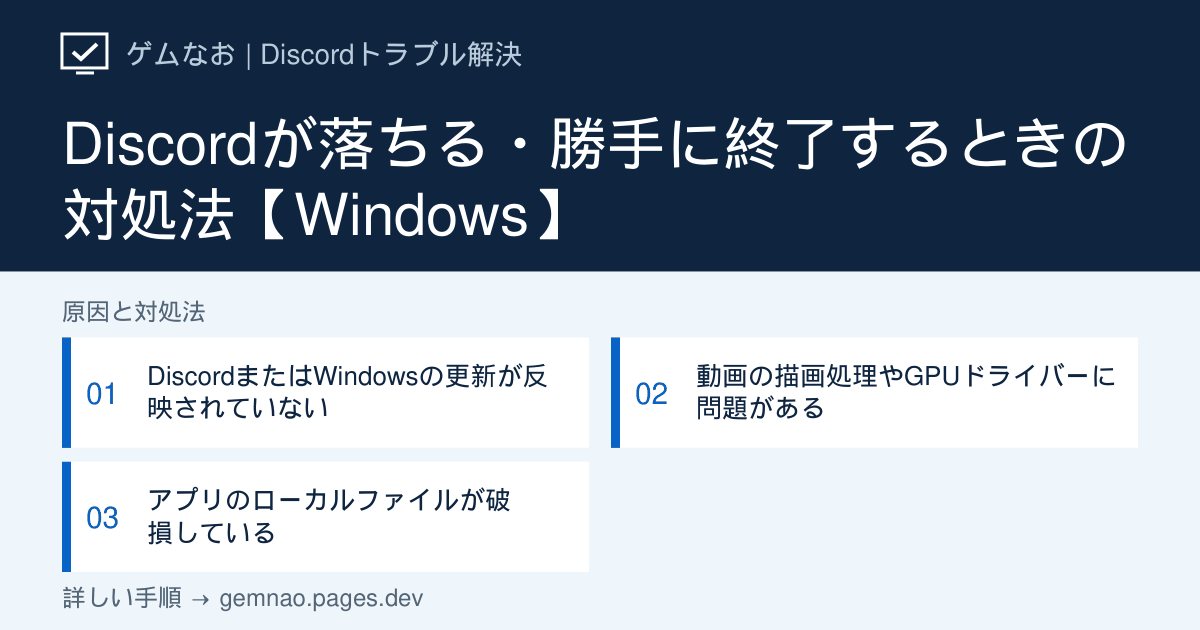
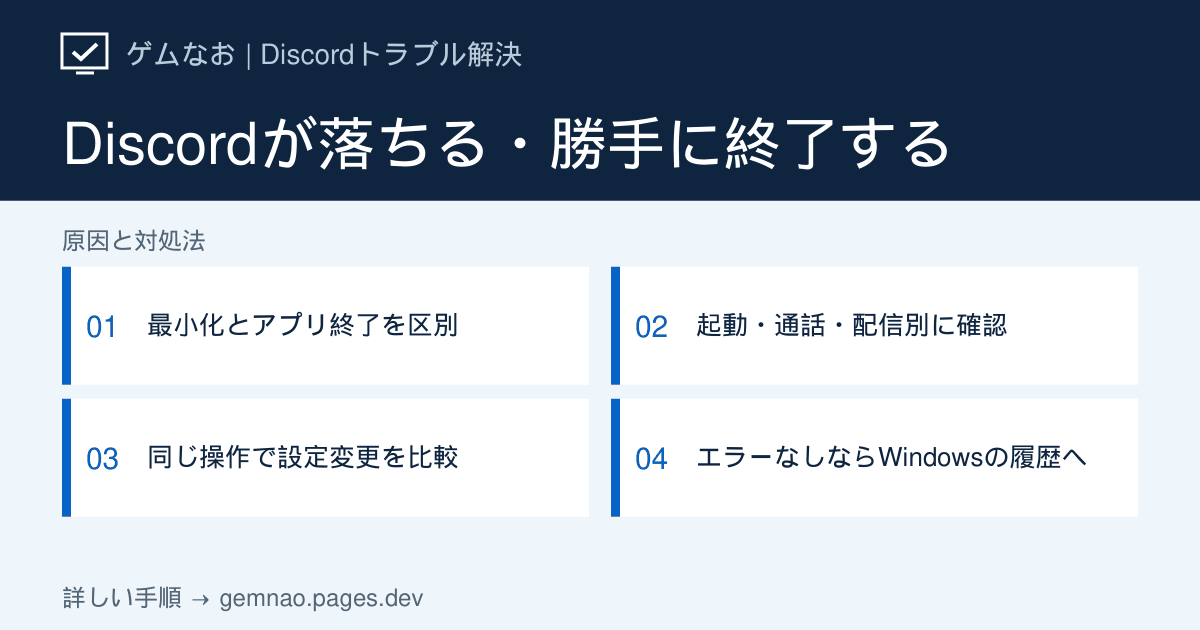
Rewrite Discord crash guide with symptom branches and Windows history checks

diff --git a/lib/discord-growth-articles.ts b/lib/discord-growth-articles.ts
@@ -281,78 +281,123 @@ export const discordGrowthArticles: DiscordArticle[] = [
   {
     slug: 'crashing',
     category: 'launch',
-    title: 'Discordが落ちる・勝手に終了するときの対処法【Windows】',
+    title: 'Discordが落ちる・勝手に終了する原因と直し方【起動・通話・配信別】',
     shortTitle: 'Discordが落ちる',
-    seoTitle: 'Discordが落ちる・勝手に終了するときの対処法【Windows】',
-    metaDescription:
-      'Discordが起動後や通話中に落ちる、勝手に終了する場合のWindows向け対処法。更新、描画設定、ドライバー、再インストールを順に確認します。',
-    symptom:
-      'Discordが起動直後に閉じる、通話や画面共有を始めると落ちる、操作中にウィンドウが突然消える場合の切り分け手順です。',
-    target: 'Windows 11 / Windows 10版 Discordデスクトップアプリ',
-    conclusion:
-      'DiscordとWindowsを更新して再起動し、画面共有や動画で落ちる場合はハードウェアアクセラレーションとGPUドライバーを確認します。アプリだけが落ち続ける場合は公式手順で再インストールします。',
+    seoTitle: 'Discordが落ちる・勝手に終了する時の対処法【Windows】',
+    metaDescription: 'Discordが起動直後・通話開始・画面共有・ゲーム中に落ちる原因を症状別に切り分け。最小化とクラッシュの区別、Windowsの信頼性履歴、描画設定の比較、再インストールの場所と確認方法を解説します。',
+    symptom: 'Discordが突然閉じる、起動してすぐ終了する、通話や画面共有の開始時に落ちる、ゲーム中に再起動を繰り返す場合の手順です。',
+    target: 'Windows 11／10版Discordデスクトップアプリ',
+    conclusion: 'まず通話が続いているか・通知領域から画面を戻せるかを確認し、最小化と終了を分けます。実際に落ちる場合は、起動直後ならブラウザ比較とローカルデータ、通話開始なら音声機器、配信開始なら描画設定、ゲーム中なら負荷とオーバーレイを順に確認します。エラーが出ない場合も、発生時刻をWindowsの信頼性履歴と照合できます。',
     quickFixes: [
-      'Discordを完全終了し、Windowsを再起動して最新版を開く',
-      '画面共有や動画で落ちる場合はハードウェアアクセラレーションを切り替える',
-      'ブラウザ版で再現するか確認し、アプリだけなら再インストールする',
+      '通話の継続と通知領域を確認し、画面が隠れただけか、本体が終了したかを分ける',
+      '落ちた時刻と直前の操作を控え、完全終了・再起動後に同じ操作を1回試す',
+      '起動・通話・画面共有・ゲーム中のどこで落ちるか、下の表から手順を選ぶ',
+    ],
+    diagnosisTitle: 'いつ落ちる？ 発生時点と確認結果の判定表',
+    diagnosisIntro: '設定は1つずつ変更し、同じ通話相手・共有対象・ゲーム場面で比較します。PC全体まで止まる場合は、Discord単体の確認を繰り返さずPC側のトラブルとして扱います。',
+    showStatusCheck: false,
+    diagnosis: [
+      { symptom: '画面が消えても通話が続き、通知領域から開ける', check: '最小化・閉じる操作の可能性。まず本体終了との違いを確認', causeIndex: 1 },
+      { symptom: '起動直後に終了して設定画面を開けない', check: '完全終了後も同じか。ブラウザ版で会話一覧が開くか比較', causeIndex: 2 },
+      { symptom: '音声通話に入った時だけ落ちる', check: 'カメラ・共有をオフにし、音声機器を1つずつ変えて比較', causeIndex: 3 },
+      { symptom: 'カメラ・画面共有を始めると落ちる', check: '音声だけの通話と比較し、共有対象・描画設定を順に確認', causeIndex: 4 },
+      { symptom: 'ゲーム中や長時間使用後に落ちる', check: '録画・配信・オーバーレイを1つずつ止め、同じ場面で比較', causeIndex: 5 },
+      { symptom: 'エラーなしで消える／自動的に開き直す', check: '発生時刻と信頼性履歴のDiscordの記録を照合', causeIndex: 6 },
+      { symptom: 'アプリは操作でき、通話だけ切れる', check: 'クラッシュと分けて「通話が切れる・落ちる」の接続手順へ', causeIndex: 1 },
     ],
     causes: [
       {
-        title: 'DiscordまたはWindowsの更新が反映されていない',
-        description:
-          '古いアプリや保留中の更新、終了しきっていないプロセスがクラッシュの原因になる場合があります。',
+        title: '最小化・通話切断・アプリ終了を見分ける',
+        description: '「画面が消えた」だけではクラッシュとは限りません。通話とアプリの反応を別々に確かめます。',
         actions: [
-          '通知領域からDiscordを終了する',
-          'タスクマネージャーでDiscordのプロセスが残っていないことを確認する',
-          'Windowsを再起動し、Discordの更新を完了させる',
-          'Discord Statusで障害が出ていないか確認する',
+          '相手の声が聞こえ続けるか、相手から自分の退出が見えたかを確認する。タスクバー右下の隠れたアイコンを開き、Discordのアイコンから画面を戻せるか試す',
+          '会話が続き、画面も戻せるなら、まず閉じる・最小化時の動作を確認する。再インストールを始める必要はない',
+          'Ctrl＋Shift＋Escでタスクマネージャーを開き、Discordが残っているか確認する。残っていてもウィンドウが応答しない場合は、一部の処理が停止した可能性もある',
+          'Discord画面を操作でき、通話だけが切れた場合は関連記事「通話が切れる・落ちる」へ。画面が閉じて起動ロゴが出直す場合は、再起動した時刻を控えてSTEP 6へ進む',
+        ],
+        note: 'Discordは複数のプロセスで動作します。項目が複数あること自体は異常ではなく、1つ残っていることだけで正常動作とも判断できません。',
+      },
+      {
+        title: '起動直後に落ちる：完全終了とブラウザ比較を行う',
+        description: '設定を開く前に閉じる場合は、アプリ内のスイッチを探すより先に、起動経路とブラウザ版を確認します。',
+        actions: [
+          '通知領域からDiscordを終了し、タスクマネージャーに残ったDiscordも終了する。Windowsを再起動し、スタートメニューからDiscordを1回だけ開く',
+          '更新が表示されたら完了を待つ。Update Failedなど特定のエラーが出る場合は文言を控え、「Update Failed・更新ループ」の記事へ進む',
+          '同じPCでdiscord.com/appを開き、同じアカウントの会話一覧が表示されるか確認する。紹介ページが表示されるだけでは比較にならない',
+          'ブラウザ版が使えるならアプリ側を優先し、関連記事「Discordが起動しない」のキャッシュ退避手順を試す。改善しなければSTEP 7へ進む',
+          'ブラウザ版も進めない場合はDiscord Statusとエラー画面を確認する。ログイン失敗・通信エラー・アプリ終了を同じ原因と決めつけず、まず表示された問題を分ける',
         ],
       },
       {
-        title: '動画の描画処理やGPUドライバーに問題がある',
-        description:
-          '通話、カメラ、画面共有など映像を扱うときだけ落ちる場合は、GPU関連の切り分けを行います。',
+        title: '通話開始で落ちる：音声だけで機器を比較する',
+        description: '通話参加と同時にカメラや共有を始めると、どの操作がきっかけか分かりません。まず音声のみで試します。',
         actions: [
-          'ユーザー設定の「詳細設定」でハードウェアアクセラレーションを切り替える',
-          'Discordを再起動して同じ操作を試す',
-          'GPUメーカーの公式サイトまたはPCメーカーの手順でドライバーを更新する',
-          '直らなければハードウェアアクセラレーションを元の状態に戻す',
+          'カメラと画面共有をオフにして、同じ相手との音声通話に参加する。音声だけなら安定する場合はSTEP 4へ進む',
+          '「音声・ビデオ」で現在の入力・出力機器を控え、使う機器を名前で指定する。仮想音声機器や音声加工ソフトを利用中なら、実際のマイク・ヘッドホンを直接選んで比較する',
+          '可能なら入力、次に出力の順に別の機器へ変え、同じ通話で確認する。機器を同時に全部変えず、どの変更で落ちなくなったか記録する',
+          '特定機器でだけ再現するなら、そのメーカーの接続・ドライバー案内を確認する。アプリだけで続く場合は、ブラウザ版でも同じ音声通話を試す',
+          'アプリだけ失敗する場合は入出力・キー割り当てを控え、「音声・ビデオ」のデバッグ項目などにある音声・ビデオ設定のリセットを試す。選択し直した機器で通話に入り、結果を比べる',
         ],
       },
       {
-        title: 'アプリのローカルファイルが破損している',
-        description:
-          'ブラウザ版は正常でデスクトップアプリだけが落ちる場合は、アプリ側のファイルを切り分けます。',
+        title: 'カメラ・画面共有で落ちる：共有対象と描画設定を比較する',
+        description: '映像を使い始めた瞬間だけ落ちる場合の手順です。GPU故障と決めつけず、対象アプリやDiscordの描画設定を分けて確認します。',
         actions: [
-          'ブラウザ版Discordで同じアカウントと操作を試す',
-          'アプリだけで落ちる場合はDiscordをアンインストールする',
-          'Discord公式のトラブルシューティング手順に従って残存フォルダーを整理する',
-          'discord.com/downloadから最新版を再インストールする',
+          '音声通話だけで安定することを確認し、次にカメラだけ、または画面共有だけを開始する。どちらを開始した直後に落ちたかを記録する',
+          '画面共有なら、個人情報のないメモ帳のウィンドウと問題のゲームを同じ共有方法で比較する。特定対象だけ失敗する場合は、その対象名と表示モードを残す',
+          'Discordの歯車→「詳細設定」でハードウェアアクセラレーションの現在の状態を控え、反対の状態へ切り替えてDiscordを再起動する。同じ共有対象・設定・相手で比較する',
+          '切り替え後だけ安定するなら、その設定で通常の利用時間も確認する。変化がなければ元へ戻してから、GPU・PCメーカーの公式手順でドライバーを確認する。設定とドライバーを同時に変えない',
+          'ドライバー更新直後から発生した場合は、更新前後のバージョンを控え、共通ガイド「GPUドライバー更新」の戻し方を確認する。映像は止まるがDiscord本体は操作できるなら、画面共有の記事へ進む',
         ],
+        note: 'ここで比較するのは「詳細設定」の描画設定です。「音声・ビデオ」内の映像処理設定も同時に変えると、どちらの効果か分からなくなります。',
+      },
+      {
+        title: 'ゲーム中・長時間後に落ちる：併用機能と負荷を確認する',
+        description: '同時に使う機能を1つずつ止め、落ちるまでの時間も比較します。使用率の高さだけで原因を断定しないことが大切です。',
+        actions: [
+          'ゲーム名・場面・Discord起動から落ちるまでの時間を控える。タスクマネージャーの「プロセス」でCPU・メモリ・GPUを確認し、重くなった時に増えるアプリを記録する',
+          '録画やDiscord配信をしている場合は、まずどちらか一方だけ停止して同じ場面を試す。改善した場合は、停止した機能との併用条件を優先して見直す',
+          'Discordのユーザー設定→「ゲームオーバーレイ」で無効化し、同じゲームを試す。改善しないなら元の設定へ戻す。改善するなら無効のまま利用して再発条件を残す',
+          '例えば通常30分ほどで落ちるなら、変更後に2分だけ動いたことを解決とはしない。可能な範囲で同程度の利用時間を比較し、まだ短時間しか試していない場合はその旨を記録する',
+          'ゲームや他アプリも同時に落ちる、PCが再起動する場合はSTEP 6で履歴を確認し、PC側の原因を調べる。Discordの再インストールだけを繰り返さない',
+        ],
+      },
+      {
+        title: 'エラーなしで落ちる：Windowsの信頼性履歴を読む',
+        description: '信頼性履歴は、アプリの停止やWindowsの問題を時刻と照合するために使います。表示されたファイル名だけで原因を確定するための画面ではありません。',
+        actions: [
+          'Windows＋Rを押し、perfmon /rel と入力してEnterを押す。信頼性モニターが開いたら、落ちた日付を選ぶ',
+          'その日の重大なイベントからDiscordに関する停止記録を探す。「技術的な詳細の表示」などで発生時刻・アプリ名・障害モジュール名・例外コードを確認し、表示された項目を控える',
+          'Discordの時刻が一致するなら、直前の操作とセットで記録する。DLL名が表示されても、そのDLLを削除したり配布サイトから入れ替えたりしない',
+          '同時刻にゲームや他アプリの停止、Windowsの異常終了もあるなら、その記録も残す。PC全体が止まる・再起動する症状は、PC共通ガイドのフリーズ・ブルースクリーン・電源断の手順へ進む',
+          '記録がない場合も正常とは断定しない。消えた時刻、通話が切れたか、起動ロゴが出直したかを残し、次に再現した時に照合する',
+        ],
+      },
+      {
+        title: 'アプリだけ落ち続ける場合：データの場所を確認して入れ直す',
+        description: 'ブラウザ版で同じ操作ができ、機能別の確認でも改善しない場合の後段です。再ログインに必要な情報を確保してから進めます。',
+        actions: [
+          'メール・パスワード・二要素認証を利用できることを確認し、入力機器やキー割り当てなど必要な設定を控える。別端末でログイン済みなら、その端末はログアウトしない',
+          'Discordを完全終了し、Windowsの「設定」→「アプリ」→「インストールされているアプリ」（Windows 10では「アプリと機能」）からDiscordをアンインストールする',
+          'Windows＋R→%appdata%で開いた場所と、Windows＋R→%localappdata%で開いた場所をそれぞれ確認する。残っているDiscordフォルダーが対象で、AppDataやLocal全体は削除しない',
+          '必要なローカルデータは両方を区別して別の場所へコピーしてから、公式の入れ直し手順に従って残存Discordフォルダーを削除する。使用中と表示される場合は残ったDiscordプロセスを確認する',
+          'Windowsを再起動し、discord.com/downloadから最新版をインストールする。ログイン後、まず通常起動、次に問題が出た通話や共有操作を試す。退避した古いフォルダー全体は戻さない',
+        ],
+        note: 'サーバー参加情報や送信済みメッセージはアカウント側に残りますが、端末の設定は再設定が必要な場合があります。退避データやログを一般公開せず、問い合わせで必要な範囲だけ共有してください。',
       },
     ],
-    ifNotFixed:
-      '特定のサーバー、通話、画面共有だけで落ちるかを確認してください。再現手順、発生時刻、WindowsとDiscordのバージョン、クラッシュ前に行った操作を整理し、公式の不具合報告手順に従ってDiscordサポートへ連絡してください。',
+    ifNotFixed: '相談用に「Windows・Discordのバージョン／落ちた時刻／直前の操作／ブラウザ版の結果／機器・共有対象／変更した設定と結果／信頼性履歴」を整理してください。記入例：音声通話は継続できるが、ゲームのアプリ共有を始めると終了。メモ帳の共有は成功。描画設定の切り替えでは変化なし。これは記録形式の例です。エラー画像はDM・メールアドレスを隠し、公式サポートへ送ります。',
     faqs: [
-      {
-        question: 'ゲーム中だけDiscordが落ちます',
-        answer:
-          'PC負荷やゲームオーバーレイ、GPUの描画処理が影響している可能性があります。オーバーレイを一時的にオフにし、ハードウェアアクセラレーションとGPUドライバーを切り分けてください。',
-      },
-      {
-        question: '通話や画面共有を始めると落ちます',
-        answer:
-          '音声・映像機能に関係する可能性があります。Discord公式の音声・ビデオ手順に沿って、権限、デバイス、ドライバー、ハードウェアアクセラレーションを確認してください。',
-      },
-      {
-        question: 'ブラウザ版は使える場合、アカウントに問題はありませんか？',
-        answer:
-          'ブラウザ版で同じ操作が正常なら、アカウントやDiscord全体よりもデスクトップアプリのローカル環境に問題がある可能性が高くなります。',
-      },
+      { question: '×ボタンで画面が消えました。クラッシュですか？', answer: '通知領域から画面を戻せて通話も続くなら、バックグラウンドで動いている可能性があります。画面が消えただけでクラッシュとは判断しません。' },
+      { question: 'Discordが落ちてすぐ勝手に開き直します', answer: '再起動した時刻と直前の操作を記録し、信頼性履歴にDiscordの停止があるか照合します。開き直したことだけでは、クラッシュか更新などによる再起動かを断定できません。' },
+      { question: 'ハードウェアアクセラレーションはオフが正解ですか？', answer: '環境により結果が変わります。元の状態を控え、切り替え後に同じ操作で比較し、改善しなければ戻してください。GPUドライバーの更新も同時に行わないようにします。' },
+      { question: 'PCごと再起動する場合もこの記事で直せますか？', answer: 'Discord単体の終了とは確認範囲が異なります。Windowsの異常終了や他アプリの停止も調べ、フリーズ・ブルースクリーン・電源断の共通ガイドへ進んでください。' },
     ],
-    sources: [generalTroubleshooting, voiceVideoGuide, bugsGuide, status],
-    related: ['not-opening', 'slow-performance', 'update-failed'],
-    checkedAt: '2026-09-19',
+    sources: [generalTroubleshooting, voiceVideoGuide, bugsGuide, official('209099387--Windows-Installer-Errors', 'Windowsのインストーラーエラー（英語）'), official('225733808-Why-does-Discord-have-multiple-processes', 'Discordの複数プロセスについて（英語）'), official('217659737-Game-Overlay-101', 'ゲームオーバーレイ（英語）'), { label: 'Microsoft Learn：perfmon（信頼性モニターの起動）', url: 'https://learn.microsoft.com/ja-jp/windows-server/administration/windows-commands/perfmon' }],
+    related: ['not-opening', 'call-disconnects', 'screen-share-not-working', 'slow-performance', 'update-failed', 'overlay-not-showing'],
+    ogTitle: 'Discordが落ちる・勝手に終了する',
+    ogSteps: ['最小化とアプリ終了を区別', '起動・通話・配信別に確認', '同じ操作で設定変更を比較', 'エラーなしならWindowsの履歴へ'],
+    checkedAt: '2026-09-28',
     status: 'verified',
   },
 ];

diff --git a/lib/og-image-manifest.ts b/lib/og-image-manifest.ts
@@ -8,7 +8,7 @@ export const ogImageManifest: Record<string, string> = {
   "/discord/bot-remove": "b35c5c5b",
   "/discord/call-disconnects": "bb6b1e0b",
   "/discord/camera-not-working": "1a81ecf4",
-  "/discord/crashing": "835e2bab",
+  "/discord/crashing": "10557b11",
   "/discord/echo-double-voice": "bf3f502a",
   "/discord/error-1001": "7cb71244",
   "/discord/error-1002": "ead6d712",
